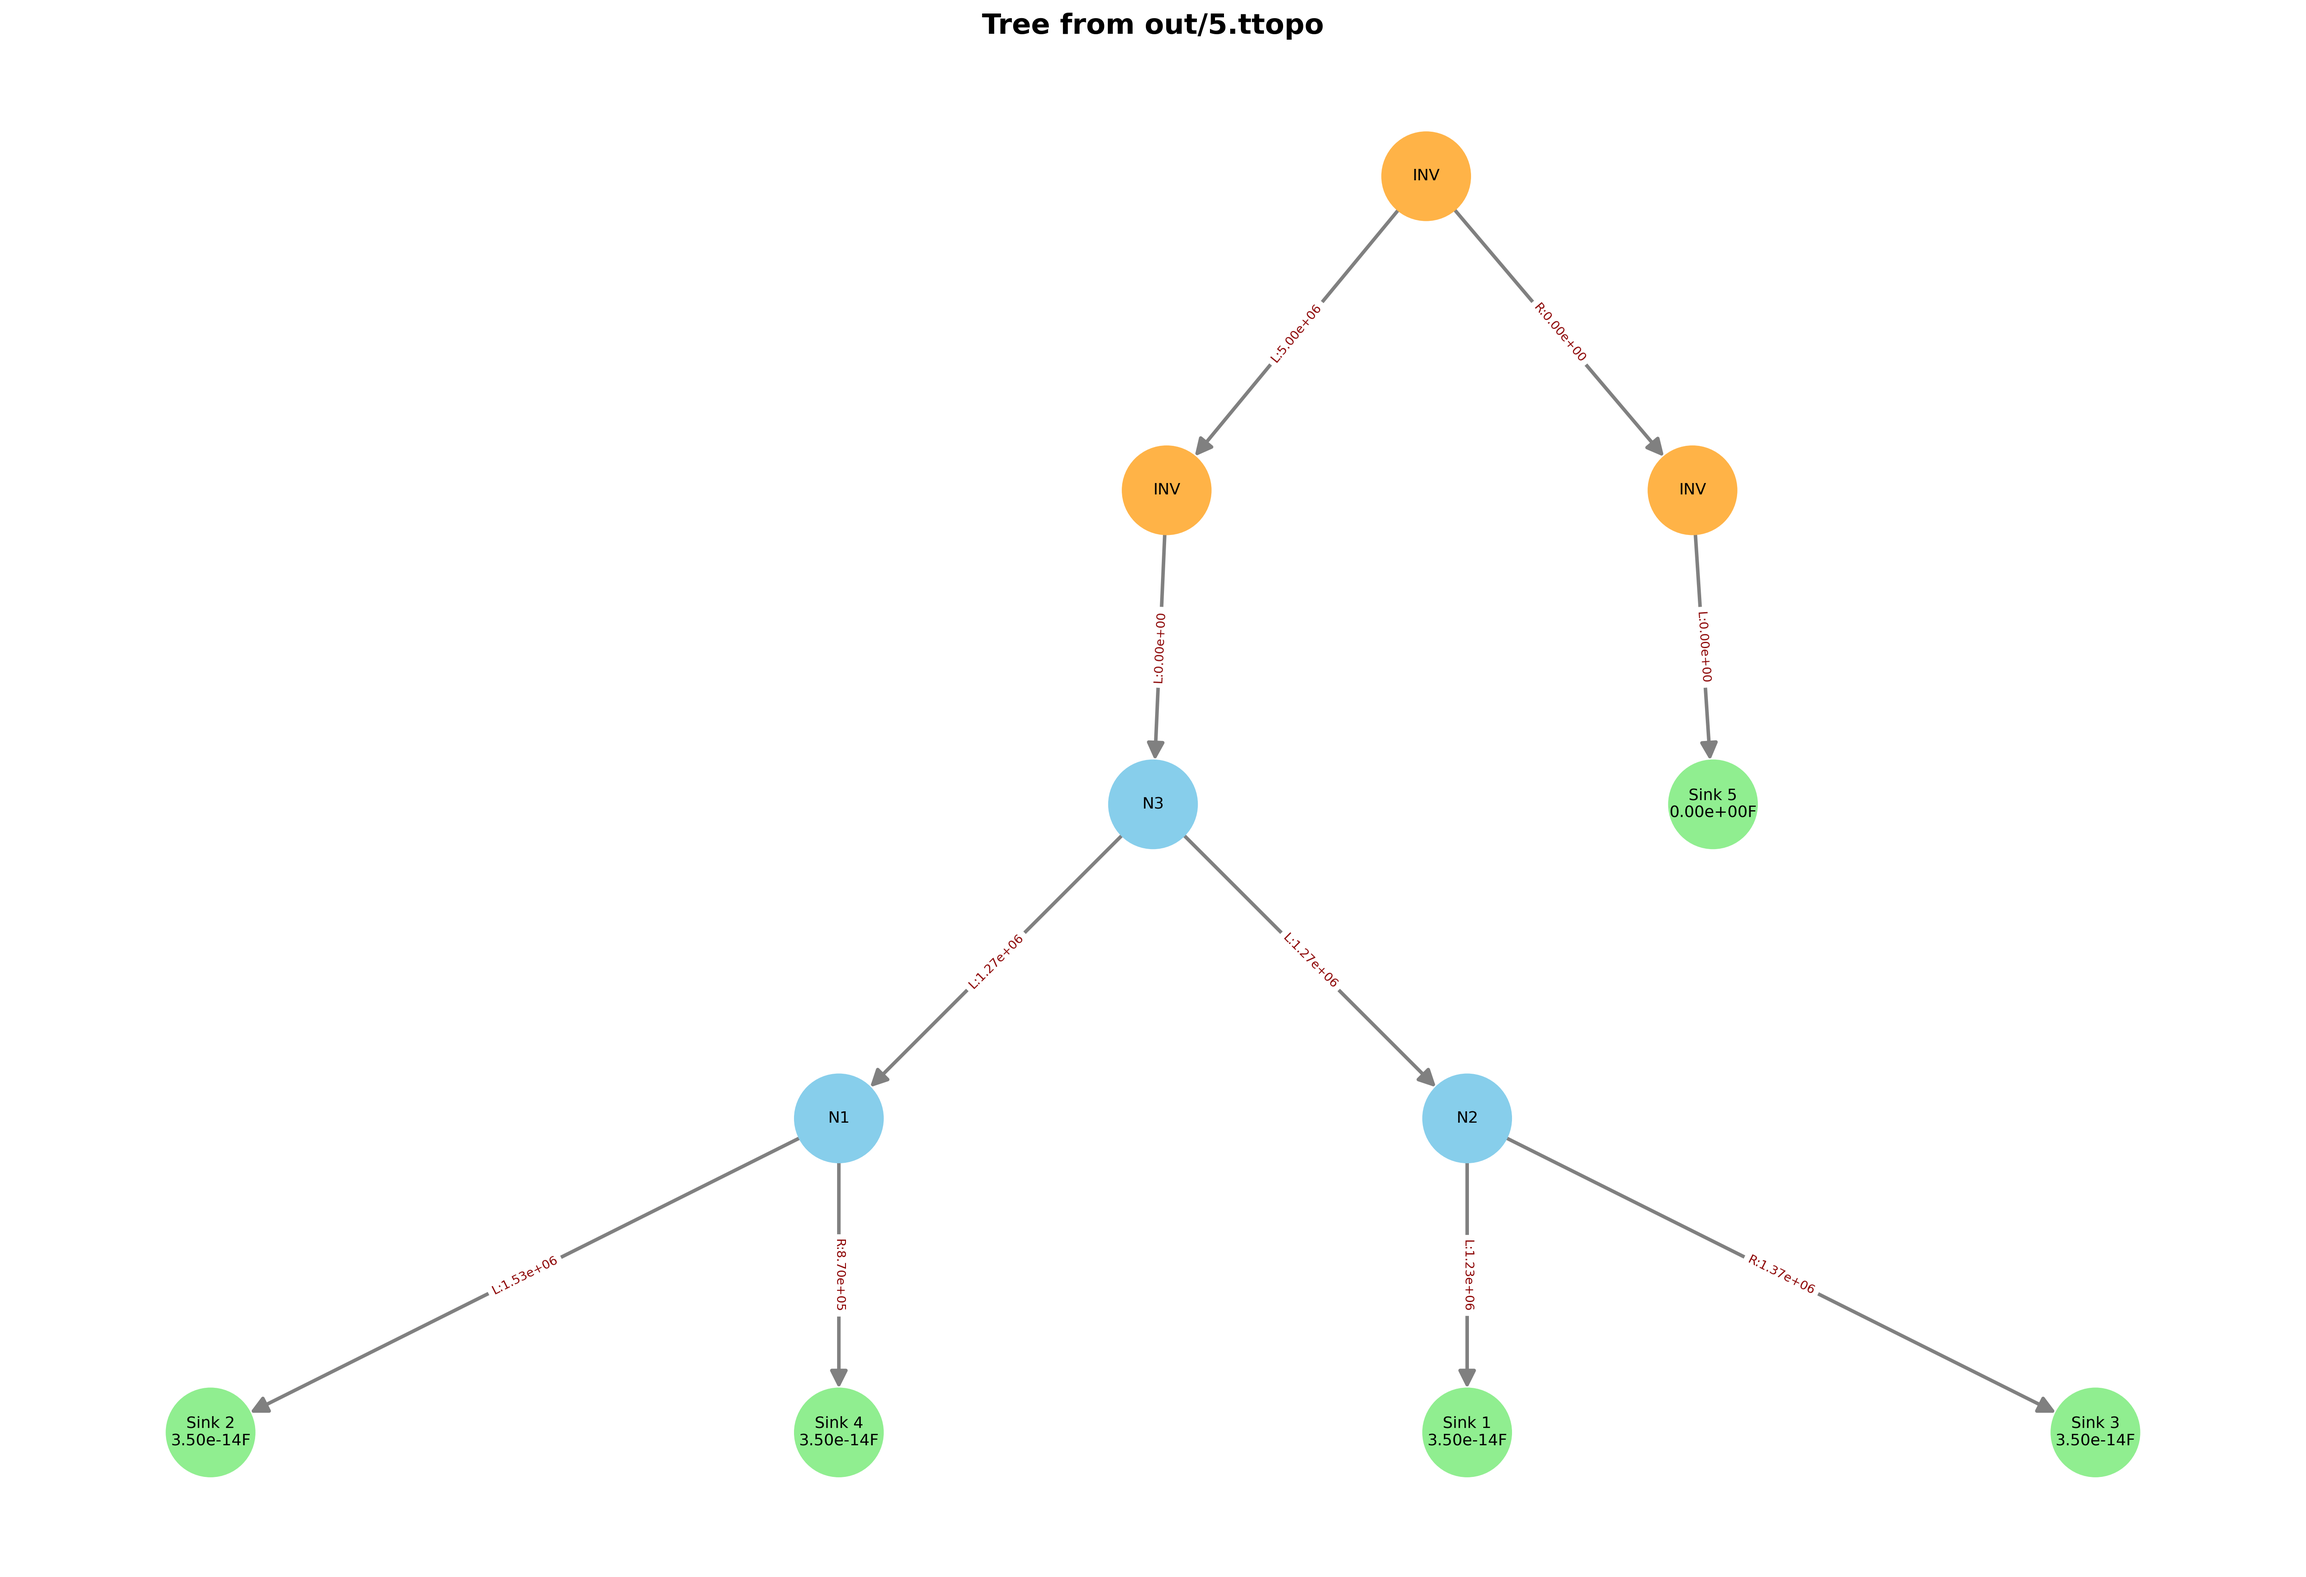
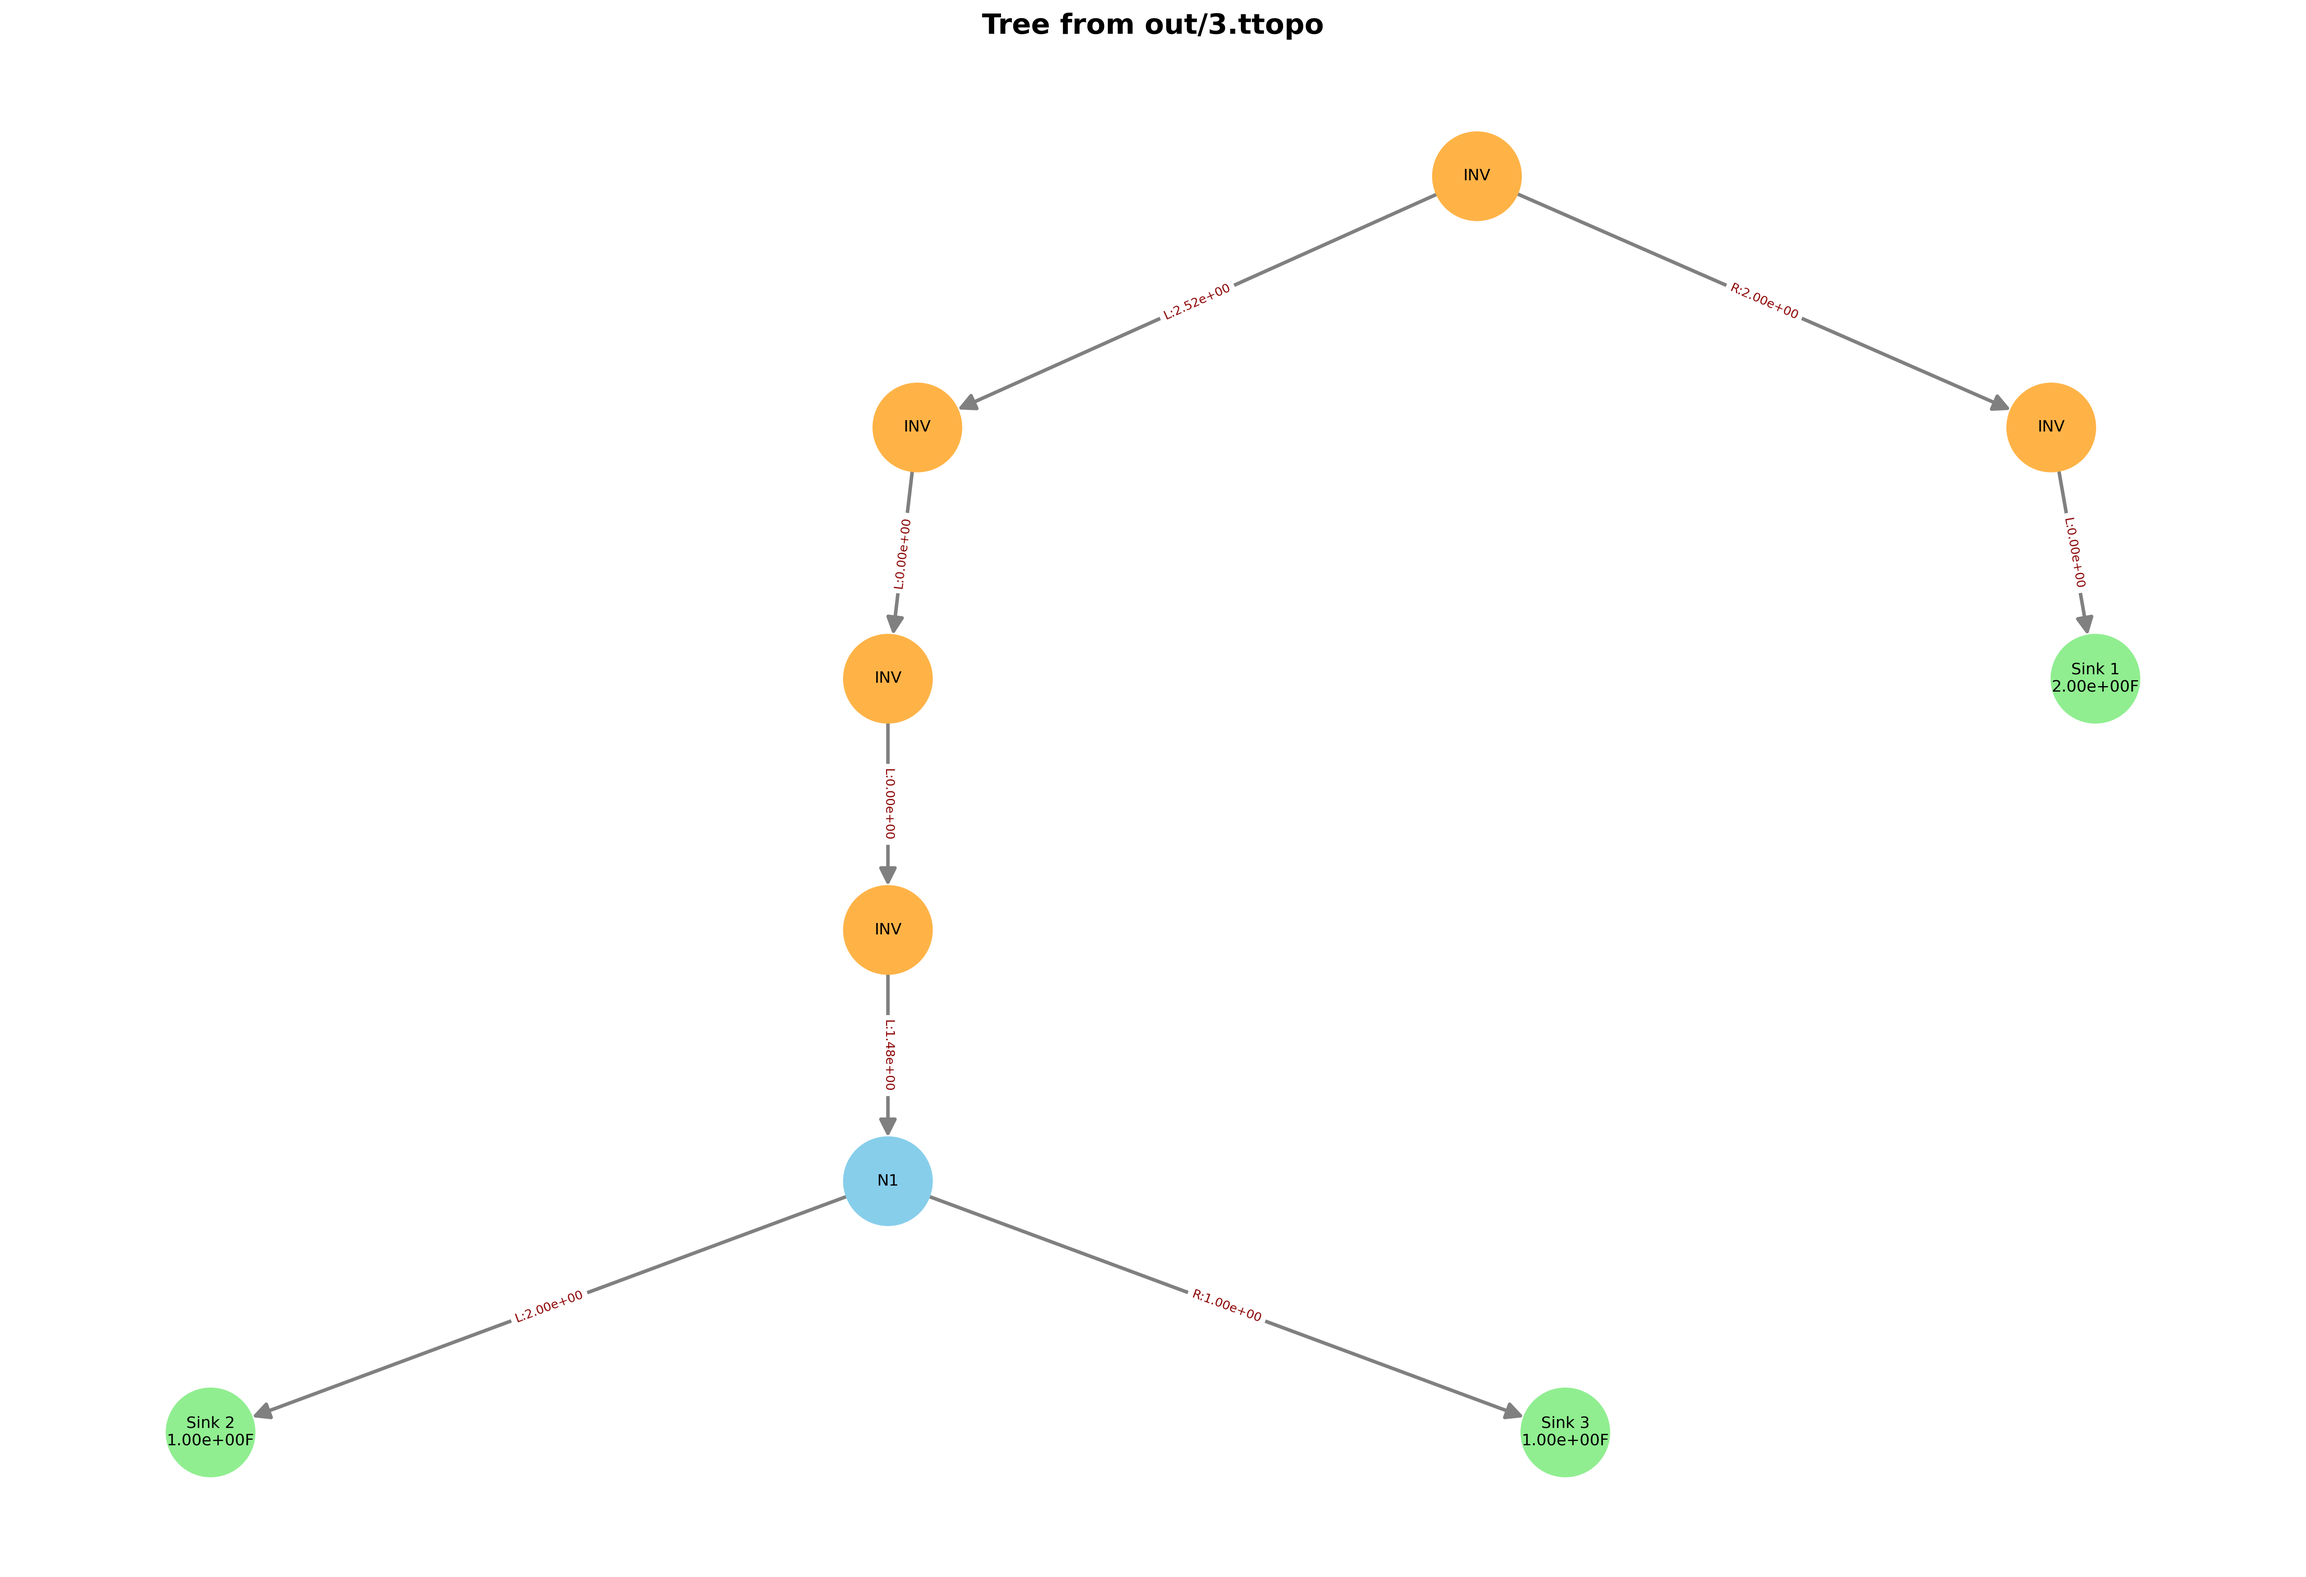
cleaned

diff --git a/tree.h b/tree.h
@@ -23,32 +23,19 @@ void recur_delay(Node * node, double pDelay, double pResistance,double r,FILE* o
 void dp_delay (Node * root, double Rb,double re,FILE * out);
 
 
-double compute_max_distance_hyp(double CT, double Tmax, double T_constraint, 
-                                double Rb, double r, double c, double Co);
+double compute_max_distance_hyp(double CT, double Tmax, double T_constraint, double Rb, double r, double c, double Co);
 
-Node* insert_inverter(Node* node, double L_max, double Rb, double r, double c, 
-                      double Co, double Cb, double Tb);
+Node* insert_inverter(Node* node, double L_max, double Rb, double r, double c,  double Co, double Cb, double Tb);
 
 
-Node* insert_inverter_on_child(Node* parent,int child_side,
-                                double Rb, double r, double c, 
-                                double Co, double Cb, double Tb);
+Node* insert_inverter_on_child(Node* parent,int child_side, double Rb, double r, double c, double Co, double Cb, double Tb);
 
-bool process_node(Node* node, double T_constraint, 
-                  double Rb, double r, double c, double Co, double Cb, double Tb);
+bool process_node(Node* node, double T_constraint,double Rb, double r, double c, double Co, double Cb, double Tb);
 
-bool inverter_insertion(Node* root, double T_constraint, 
-                        double Rb, double r, double c, double Co, double Cb, double Tb);
+bool inverter_insertion(Node* root, double T_constraint, double Rb, double r, double c, double Co, double Cb, double Tb);
 
 void postorder_with_inverters(Node* root, FILE* out);
 void postorder_with_inverters_binary(Node* root, FILE* out);
 
 
-void count_sinks(Node* node, std::set<int>& sinks);
-void count_edges(Node* node, std::set<std::pair<int, int>>& edges, int parent_id);
-void check_parity(Node* node, int& noninverting_count);
-void count_inverters(Node* node, int& inverter_count, bool& all_valid, bool count_root );
-void count_stage_sinks(Node* node, double T_constraint, int& stage_sinks, int& safe_stage_sinks);
-void verify_solution(Node* original_root, Node* modified_root, double T_constraint, 
-                     const char* test_name);
 
